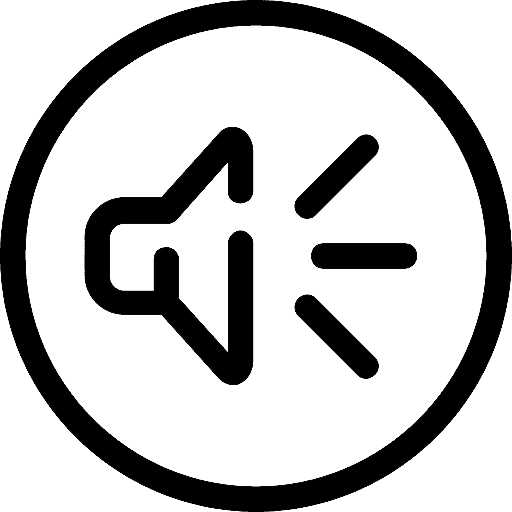
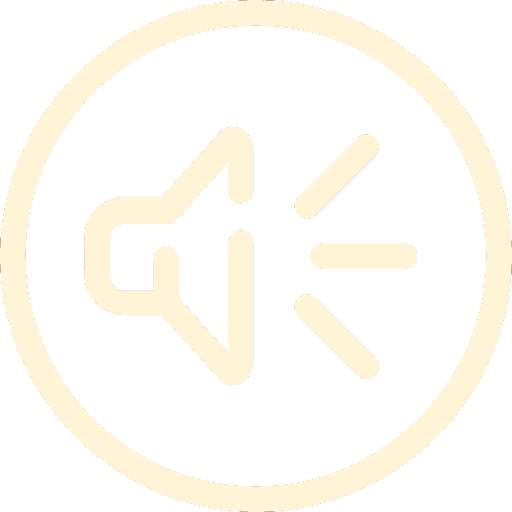
fix: edit color sound pict

diff --git a/src/components/Sprint/Sprint.scss b/src/components/Sprint/Sprint.scss
@@ -5,6 +5,24 @@
   justify-content: space-around;
   max-width: 1000px;
   margin: 0 auto;
+  background-color: #278d9f;
+}
+
+.wrapper {
+  min-height: 100%;
+  display: flex;
+  flex-direction: column;
+  justify-content: space-around;
+  max-width: 1000px;
+  margin: 0 auto;
+}
+
+.reset {
+  width: 45px;
+  height: 45px;
+  margin-left: auto;
+  margin-right: 40px;
+  background: center / contain no-repeat url(../../img/repeat.png);
 }
 
 .topSection {
@@ -12,13 +30,14 @@
   justify-content: space-around;
   align-items: center;
 }
-
 .timer {
+  display: flex;
+  align-items: center;
+  justify-content: center;
   width: 100px;
   height: 100px;
-  background-color: blueviolet;
+  color: var(--color-font);
 }
-
 .score {
   display: flex;
   align-items: center;
@@ -26,6 +45,7 @@
   font-size: 26px;
   width: 100px;
   height: 100px;
+  color: var(--color-font);
 }
 .question {
   display: flex;
@@ -33,6 +53,22 @@
   flex-direction: column;
   justify-content: space-between;
 }
+
+.questionNotT {
+  padding-top: 40px;
+  color: var(--color-font);
+  font-family: "TT Phobos Inline";
+  font-weight: 500;
+  font-style: normal;
+  font-size: 42px;
+}
+.questionT {
+  padding-top: 20px;
+  color: var(--color-font);
+  font-family: "TT Phobos";
+  font-size: 22px;
+}
+
 .correctCount {
   display: flex;
   align-items: center;
@@ -46,17 +82,17 @@
   border-radius: 50%;
 }
 .correctSound {
-  width: 30px;
-  height: 30px;
+  width: 90px;
+  height: 90px;
   background: center / contain no-repeat url(../../img/sound.png);
 }
-.possibleQuestion {
-}
+
 .result {
   margin: 10px 10px 10px 10px;
   border: solid 2px;
   border-radius: 5px;
   border-color: black;
+  background-color: var(--color-font);
 }
 
 .resultTable {
@@ -66,7 +102,8 @@
 }
 
 .resultTable:nth-child(even) {
-  background-color: #f2f2f2;
+  color: var(--color-font);
+  background-color: var(--color-bg-hover);
 }
 
 .answer-block {
@@ -79,50 +116,53 @@
   display: flex;
   justify-content: center;
   align-items: center;
-  width: 150px;
-  height: 50px;
-  border: solid 2px;
-  border-radius: 5px;
-  border-color: black;
-  color: black;
-  background-color: whitesmoke;
+  width: 50%;
+  max-width: 250px;
+  height: 40px;
+  margin: 20px auto 0;
+  border: 3px solid #278d9f;
+  border-radius: 30px;
+  color: var(--color-font);
+  background-color: rgba(31,112,127,.3);
   cursor: pointer;
 }
-.correct-sp {
+.correct {
   align-self: center;
   display: flex;
   justify-content: center;
   align-items: center;
-  width: 150px;
-  height: 50px;
-  border: solid 2px;
-  border-radius: 5px;
-  border-color: black;
-  color: black;
-  background-color: whitesmoke;
+  width: 50%;
+  max-width: 250px;
+  height: 40px;
+  margin: 20px auto 0;
+  border: 3px solid #278d9f;
+  border-radius: 30px;
+  color: var(--color-font);
+  background-color: rgba(31,112,127,.3);
   cursor: pointer;
 }
 
-.correct-sp, .correct-sp:hover {
+.correct, .correct:hover {
   animation: correct 0.5s;
 }
  
-.incorrect-sp, .incorrect-sp:hover {
+.incorrect, .incorrect:hover {
   animation: incorrect 0.5s;
 }
 
-.button {
+.button-sp {
   align-self: center;
   display: flex;
   justify-content: center;
   align-items: center;
-  width: 150px;
-  height: 50px;
-  border: solid 2px;
-  border-radius: 5px;
-  border-color: black;
-  color: black;
-  background-color: whitesmoke;
+  width: 50%;
+  max-width: 250px;
+  height: 40px;
+  margin: 20px auto 0;
+  border: 3px solid #278d9f;
+  border-radius: 30px;
+  color: var(--color-font);
+  background-color: rgba(31,112,127,.3);
   cursor: pointer;
 }
 

diff --git a/src/components/Sprint/Sprint.jsx b/src/components/Sprint/Sprint.jsx
@@ -4,27 +4,24 @@ import "./Sprint.scss";
 export const Sprint = () => {
 
   return (
-    <div className="sprint-container">
+    <div className="wrapper">
+      <div className="reset hidden"></div>
       <div className="topSection">
         <div className="timer"></div>
         <div className="score"></div>
       </div>
       <div className="question">
-        <div className="correctCount">
-          <div className="count"></div>
-          <div className="count"></div>
-          <div className="count"></div>
-        </div>
         <div className="correctSound"></div>
         <div className="questionNotT"></div>
         <div className="questionT"></div>
       </div>
-      <div className="result"></div>
-      <div className="answer-block">
+      <div className="result hidden"></div>
+      <div className="answer-block hidden">
         <div className="unCorrect">Неверно!</div>
         <div className="correct">Верно!</div>
       </div>
-      <div className="button">Start!</div>
-    </div>
+      <div className="button-sp">Start!</div>
+  </div>
   )
 }
+
